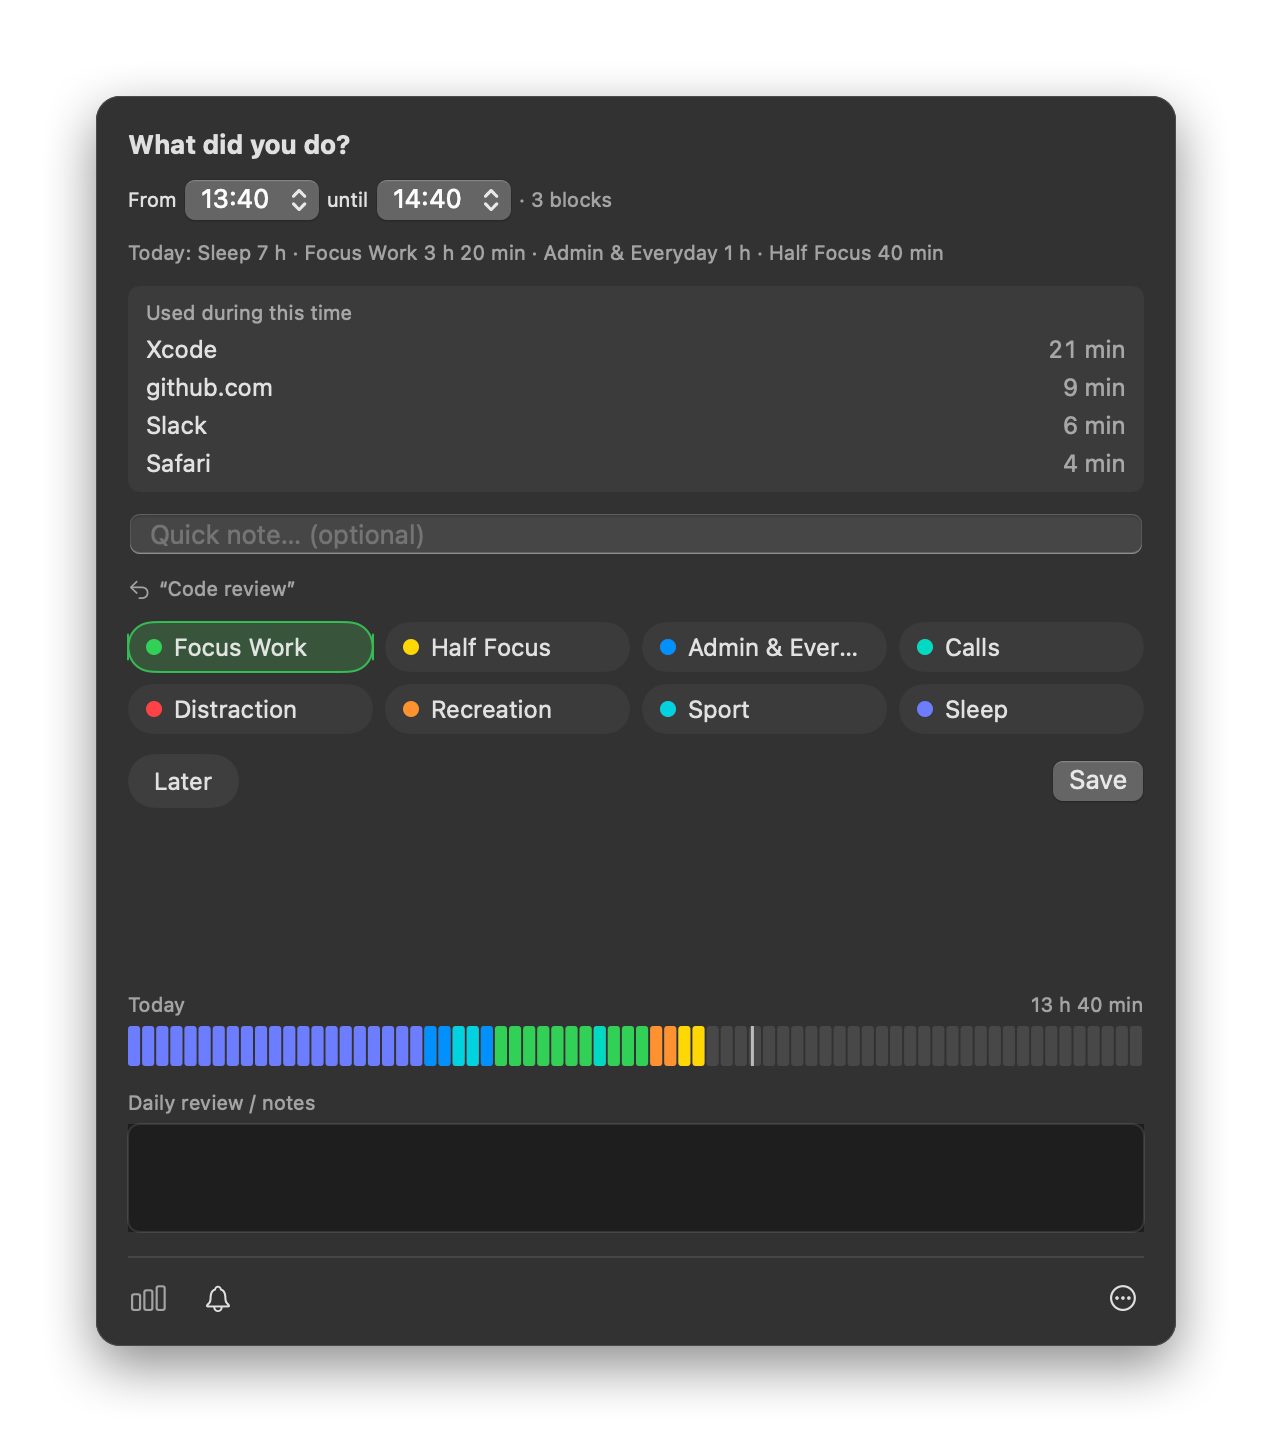
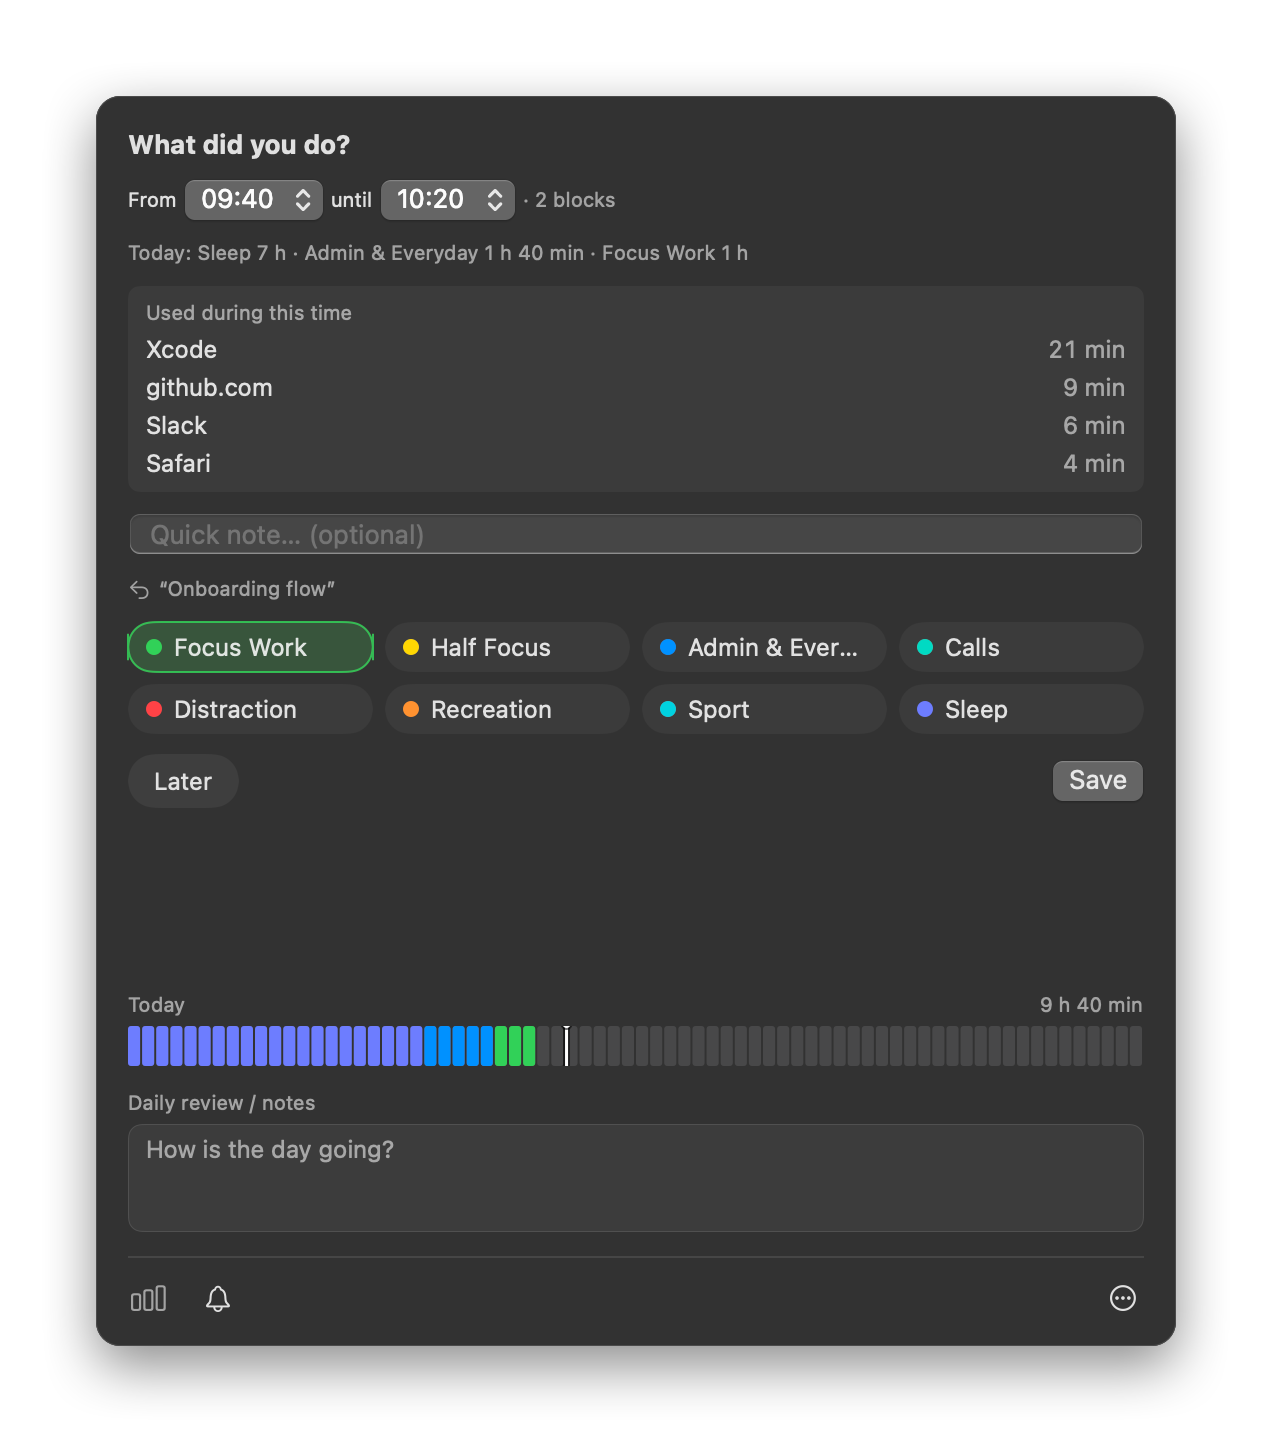
docs: refresh screenshots, add screenshot pipeline; drop popover shortcuts

diff --git a/Sources/TwentyTrackApp/Views/PopoverRootView.swift b/Sources/TwentyTrackApp/Views/PopoverRootView.swift
@@ -27,21 +27,8 @@ struct PopoverRootView: View {
         }
         .padding(16)
         .frame(width: 540)
-        .background(shortcutButtons)
     }
 
-    /// Invisible buttons carrying ⌘I / ⌘,. The popover is key while
-    /// the app stays inactive, so neither the app menu nor the "…" menu
-    /// (whose shortcuts only fire while it is open) would receive them.
-    private var shortcutButtons: some View {
-        ZStack {
-            Button("", action: onOpenStats).keyboardShortcut("i")
-            Button("", action: onOpenSettings).keyboardShortcut(",")
-        }
-        .frame(width: 0, height: 0)
-        .opacity(0)
-        .accessibilityHidden(true)
-    }
 
     /// Always-visible daily notes, saved live on every keystroke.
     private var fazitSection: some View {
@@ -168,14 +155,12 @@ struct PopoverRootView: View {
 
     private var footer: some View {
         HStack(spacing: 14) {
-            footerButton("chart.bar", help: loc("Statistik (⌘I)", "Statistics (⌘I)"), action: onOpenStats)
+            footerButton("chart.bar", help: loc("Statistik", "Statistics"), action: onOpenStats)
             muteMenu
             Spacer()
             Menu {
                 Button(loc("Statistik", "Statistics"), action: onOpenStats)
-                    .keyboardShortcut("i")
                 Button(loc("Einstellungen…", "Settings…"), action: onOpenSettings)
-                    .keyboardShortcut(",")
                 Divider()
                 Button(model.preferences.trackingPaused ? loc("Tracking fortsetzen", "Resume tracking") : loc("Tracking pausieren", "Pause tracking")) {
                     model.togglePause()

diff --git a/Sources/TwentyTrackApp/StatusBarController.swift b/Sources/TwentyTrackApp/StatusBarController.swift
@@ -114,6 +114,8 @@ final class StatusBarController: NSObject {
             model: viewModel, onClosePopover: {}, onOpenStats: {}, onOpenSettings: {}
         ))
         SnapshotMode.present([
+            .init(name: "checkin", title: loc("Check-in", "Check-in"), size: NSSize(width: 560, height: 0),
+                  view: AnyView(CheckinWindowRootView(model: viewModel, onDone: {}))),
             .init(name: "popover", title: nil, size: NSSize(width: 540, height: 0), view: popoverView),
             .init(name: "stats-day", title: loc("Statistik", "Statistics"), size: NSSize(width: 520, height: 860), view: stats("day")),
             .init(name: "stats-week", title: loc("Statistik", "Statistics"), size: NSSize(width: 520, height: 860), view: stats("week")),
@@ -324,8 +326,5 @@ final class StatusBarController: NSObject {
         // built against the Xcode 26 SDK — build.sh pins the CLT
         // toolchain instead of papering over it here.
         popover.show(relativeTo: button.bounds, of: button, preferredEdge: .minY)
-        // Key right away so the popover's ⌘, / ⌘I buttons respond
-        // without clicking into it first (the app itself stays inactive).
-        popover.contentViewController?.view.window?.makeKey()
     }
 }

diff --git a/Sources/TwentyTrackApp/AppDelegate.swift b/Sources/TwentyTrackApp/AppDelegate.swift
@@ -29,13 +29,14 @@ final class AppDelegate: NSObject, NSApplicationDelegate {
     }
 }
 
-/// Statistics (⌘I) / Settings (⌘,) / Pause (deliberately no shortcut —
-/// like ⌘Q, a reflexive keystroke must never stop tracking) — shared by the
-/// hidden app menu (where the shortcuts live) and the status item menu.
+/// Statistics / Settings / Pause — shared by the hidden app menu and the
+/// status item menu. Only Settings carries the standard ⌘, (it works while
+/// one of the app's windows is key); Pause deliberately has no shortcut —
+/// like ⌘Q, a reflexive keystroke must never stop tracking.
 enum AppMenuActions {
     static func items(paused: Bool) -> [(String, Selector, String)] {
         [
-            (loc("Statistik", "Statistics"), #selector(AppDelegate.openStatistics(_:)), "i"),
+            (loc("Statistik", "Statistics"), #selector(AppDelegate.openStatistics(_:)), ""),
             (loc("Einstellungen…", "Settings…"), #selector(AppDelegate.openSettings(_:)), ","),
             (paused ? loc("Tracking fortsetzen", "Resume tracking") : loc("Tracking pausieren", "Pause tracking"),
              #selector(AppDelegate.togglePause(_:)), ""),

diff --git a/Scripts/demo_data.py b/Scripts/demo_data.py
@@ -1,0 +1,114 @@
+#!/usr/bin/env python3
+"""Writes an English demo dataset (two weeks, stock labels, goals, one
+absence, a pending check-in with app usage) into 20minTrack's storage.
+Only for README screenshots — render_screenshots.sh backs up and
+restores the real data around it."""
+import datetime as dt, json, os, random, shutil, subprocess, uuid
+from zoneinfo import ZoneInfo
+
+TZ = ZoneInfo("Europe/Berlin")
+REF = dt.datetime(2001, 1, 1, tzinfo=dt.timezone.utc)
+BASE = os.path.expanduser("~/Library/Application Support/20minTrack")
+DOMAIN = "com.moritzthelen.twentymintrack"
+FOCUS = ["API refactor", "Onboarding flow", "Writing the launch post", "Pricing page",
+         "Bug bash", "Data model for v2", "Landing page copy"]
+FAZIT = ["Strong morning, drifted after lunch — phone away tomorrow.",
+         "Shipped the onboarding flow. Felt great.", "Too many calls, barely any deep work.",
+         "Good balance today, gym + 5h focus.", "Slow start, but the afternoon block was excellent."]
+
+
+def ts(d):
+    return (d - REF).total_seconds()
+
+
+def weekday_plan(r):
+    f = r.choice(FOCUS)
+    plan = [(0, 0, "sleep", ""), (7, 0, "orga", "Breakfast & shower")]
+    if r.random() < .5:
+        plan.append((7, 40, "sport", "Morning run"))
+    plan += [(8, 20, "orga", "Inbox"), (8, 40, "focus-mma", f), (11, 0, "calls", "Standup"),
+             (11, 20, "focus-mma", f), (12, 20, "fun", "Lunch walk"), (13, 0, "half-focus", "Code review"),
+             (13, 40, "no-focus" if r.random() < .6 else "half-focus", "YouTube" if r.random() < .6 else "Slack"),
+             (14, 0, "focus-mma", r.choice(FOCUS)),
+             (16, 0, "calls", r.choice(["Client call", "1:1 with Sam", "Design sync"])),
+             (16, 40, "half-focus", "Docs"), (17, 20, "orga", "Groceries"),
+             (18, 0, "sport" if r.random() < .6 else "fun", "Gym" if r.random() < .6 else "Walk"),
+             (19, 0, "orga", "Cooking & dinner"), (20, 0, "fun", r.choice(["Reading", "Series", "Guitar"])),
+             (22, 0, "no-focus" if r.random() < .5 else "fun", "Instagram" if r.random() < .5 else "Reading"),
+             (23, 0, "sleep", "")]
+    return plan
+
+
+def weekend_plan(_):
+    return [(0, 0, "sleep", ""), (8, 40, "orga", "Slow breakfast"), (10, 0, "sport", "Long run"),
+            (11, 20, "fun", "Brunch with friends"), (14, 0, "half-focus", "Side project"),
+            (16, 0, "fun", "Park"), (18, 0, "orga", "Cooking"), (19, 20, "fun", "Movie night"),
+            (21, 40, "no-focus", "YouTube"), (23, 20, "sleep", "")]
+
+
+def main():
+    now = dt.datetime.now(TZ)
+    today = now.date()
+    # Pending span: the two blocks before the last completed boundary.
+    last = now.replace(minute=now.minute - now.minute % 20, second=0, microsecond=0)
+    anchor = last - dt.timedelta(minutes=40)
+    shutil.rmtree(BASE, ignore_errors=True)
+    os.makedirs(BASE + "/days")
+    os.makedirs(BASE + "/usage")
+    away = {today - dt.timedelta(days=12), today - dt.timedelta(days=11)}
+    for back in range(16, -1, -1):
+        day = today - dt.timedelta(days=back)
+        if day in away:
+            continue
+        r = random.Random(day.toordinal())
+        plan = weekend_plan(r) if day.weekday() >= 5 else weekday_plan(r)
+        starts = [dt.datetime(day.year, day.month, day.day, h, m, tzinfo=TZ) for h, m, _, _ in plan]
+        ends = starts[1:] + [dt.datetime.combine(day + dt.timedelta(days=1), dt.time(0), tzinfo=TZ)]
+        entries = []
+        for (_, _, label, text), start, end in zip(plan, starts, ends):
+            if day == today:
+                if start >= anchor:
+                    break
+                end = min(end, anchor)
+            entries.append({"id": str(uuid.uuid4()).upper(), "start": ts(start), "end": ts(end),
+                            "labelID": label, "text": text})
+        data = {"entries": entries}
+        if day != today:
+            data["fazit"] = r.choice(FAZIT)
+        json.dump(data, open(f"{BASE}/days/{day}.json", "w"))
+    segments, t = [], anchor
+    for bundle, name, minutes in [("com.apple.dt.Xcode", "Xcode", 17), ("site:github.com", "github.com", 9),
+                                  ("com.tinyspeck.slackmacgap", "Slack", 6), ("com.apple.Safari", "Safari", 4),
+                                  ("com.apple.dt.Xcode", "Xcode", 4)]:
+        segments.append({"id": str(uuid.uuid4()).upper(), "bundleID": bundle, "name": name,
+                         "start": ts(t), "end": ts(t + dt.timedelta(minutes=minutes))})
+        t += dt.timedelta(minutes=minutes)
+    json.dump(segments, open(f"{BASE}/usage/{today}.json", "w"))
+    labels = [
+        {"id": "focus-mma", "name": "Focus Work", "colorKey": "green", "archived": False, "goalMinutes": 270},
+        {"id": "half-focus", "name": "Half Focus", "colorKey": "yellow", "archived": False},
+        {"id": "orga", "name": "Admin & Everyday", "colorKey": "blue", "archived": False},
+        {"id": "calls", "name": "Calls", "colorKey": "mint", "archived": False},
+        {"id": "no-focus", "name": "Distraction", "colorKey": "red", "archived": False},
+        {"id": "fun", "name": "Recreation", "colorKey": "orange", "archived": False},
+        {"id": "sport", "name": "Sport", "colorKey": "teal", "archived": False, "goalMinutes": 60},
+        {"id": "sleep", "name": "Sleep", "colorKey": "indigo", "archived": False, "goalMinutes": 480},
+    ]
+    first_away = min(away)
+    absences = [{"id": str(uuid.uuid4()).upper(), "name": "Weekend trip",
+                 "startDay": ts(dt.datetime.combine(first_away, dt.time(0), tzinfo=TZ)),
+                 "endDay": ts(dt.datetime.combine(max(away), dt.time(0), tzinfo=TZ))}]
+    subprocess.run(["defaults", "delete", DOMAIN], capture_output=True)
+
+    def write(*args):
+        subprocess.run(["defaults", "write", DOMAIN, *args], check=True)
+    write("labels", "-data", json.dumps(labels).encode().hex())
+    write("absences", "-data", json.dumps(absences).encode().hex())
+    write("checkinAnchor", "-date", anchor.astimezone(dt.timezone.utc).strftime("%Y-%m-%d %H:%M:%S +0000"))
+    write("lastLabelID", "focus-mma")
+    write("languageOverride", "en")
+    write("chimeVolume", "-float", "0.6")
+
+
+if __name__ == "__main__":
+    main()

diff --git a/CLAUDE.md b/CLAUDE.md
@@ -39,10 +39,13 @@ prompt takes over, absent days and days without entries never prompt,
 same mute/Focus gates, `FazitWindowController.show(catchupFor:)`).
 Public on GitHub (moritzthln/20minTrack, PolyForm Noncommercial 1.0.0 — no commercial use): English README.md +
 README.de.md, install.sh one-liner (latest release ZIP), CI (tests +
-universal build). README screenshots come from `SnapshotMode`: launch
-the binary with `TWENTYMINTRACK_SNAPSHOT=<dir>` and it renders popover,
-stats tabs and settings off-screen into PNGs, then quits — run it
-against demo data (back up and restore the real defaults + data dir).
+universal build). README screenshots: **after every visible UI change run
+`./Scripts/render_screenshots.sh`** (after `./build.sh`) and commit
+docs/images/ with the change — the user wants them always current. It
+backs up the real defaults + data dir, writes demo data
+(`Scripts/demo_data.py`), renders check-in, popover, stats tabs and
+settings off-screen via `SnapshotMode` (`TWENTYMINTRACK_SNAPSHOT=<dir>`),
+strips PNG metadata and always restores the real data (trap on exit).
 Releases: `./release.sh X.Y.Z` (semver; needs entries under CHANGELOG [Unreleased]; bumps Info.plist, tags, publishes ZIP + .sha256). Every user-visible change gets a CHANGELOG [Unreleased] line.
 Sibling of `~/AI/Tools/Timer` — same house style.
 

diff --git a/CONTRIBUTING.md b/CONTRIBUTING.md
@@ -38,7 +38,7 @@ More architecture notes: [`CLAUDE.md`](CLAUDE.md).
 1. Fork the repo and create a branch: `feat/<name>`, `fix/<name>` or `docs/<name>`.
 2. **Logic goes into `TwentyCore` with tests first.** Add a suite file in `Tests/TwentyTrackTestRunner/` and register its run function in `main.swift`.
 3. Run `./test.sh` — all tests must pass — and `NO_INSTALL=1 ./build.sh` to make sure the universal build works.
-4. Try the change in the real app (`./build.sh` installs and you can launch it).
+4. Try the change in the real app (`./build.sh` installs and you can launch it). If the UI changed visibly, refresh the README screenshots with `./Scripts/render_screenshots.sh` (uses demo data, restores yours afterwards).
 5. Add a line to `CHANGELOG.md` under **[Unreleased]** (Added / Changed / Fixed) for anything users will notice.
 6. Open a pull request against `main` and fill in the template. Screenshots are very welcome for UI changes.
 

diff --git a/PROJECT_STATE.md b/PROJECT_STATE.md
@@ -90,6 +90,11 @@ cheap nits hardened. 68 unit tests green. Installed to
 
 ## Recently Done
 
+- v1.2.0: issues #1–#4 (notes surface, day-strip hover, single week chart
+  with All-labels default, unified Statistics/Settings window, calendar
+  hints). Popover shortcuts removed again (didn't fire). Screenshot
+  pipeline: Scripts/render_screenshots.sh + demo_data.py.
+
 - Removed the MIT-licensed releases v1.0.0/v1.1.0 (+ tags; only my own
   test downloads) and the MIT notes in README/CHANGELOG — v1.1.1 is the
   first offered release.

diff --git a/.github/PULL_REQUEST_TEMPLATE.md b/.github/PULL_REQUEST_TEMPLATE.md
@@ -14,4 +14,4 @@
 - [ ] User-facing strings use `loc(german, english)`
 - [ ] Files ≤ 800 lines, functions ≤ 80 lines
 - [ ] `CHANGELOG.md` updated under [Unreleased] (if users will notice)
-- [ ] Screenshots attached (for UI changes)
+- [ ] Screenshots attached and `./Scripts/render_screenshots.sh` run (for UI changes)

diff --git a/CHANGELOG.md b/CHANGELOG.md
@@ -6,6 +6,9 @@ and the project uses [Semantic Versioning](https://semver.org/).
 
 ## [Unreleased]
 
+### Removed
+- The ⌘I / ⌘, shortcuts in the menu bar popover — they didn't fire reliably there. ⌘, still works inside the Statistics/Settings window.
+
 ## [1.2.0] - 2026-10-02
 
 ### Added
